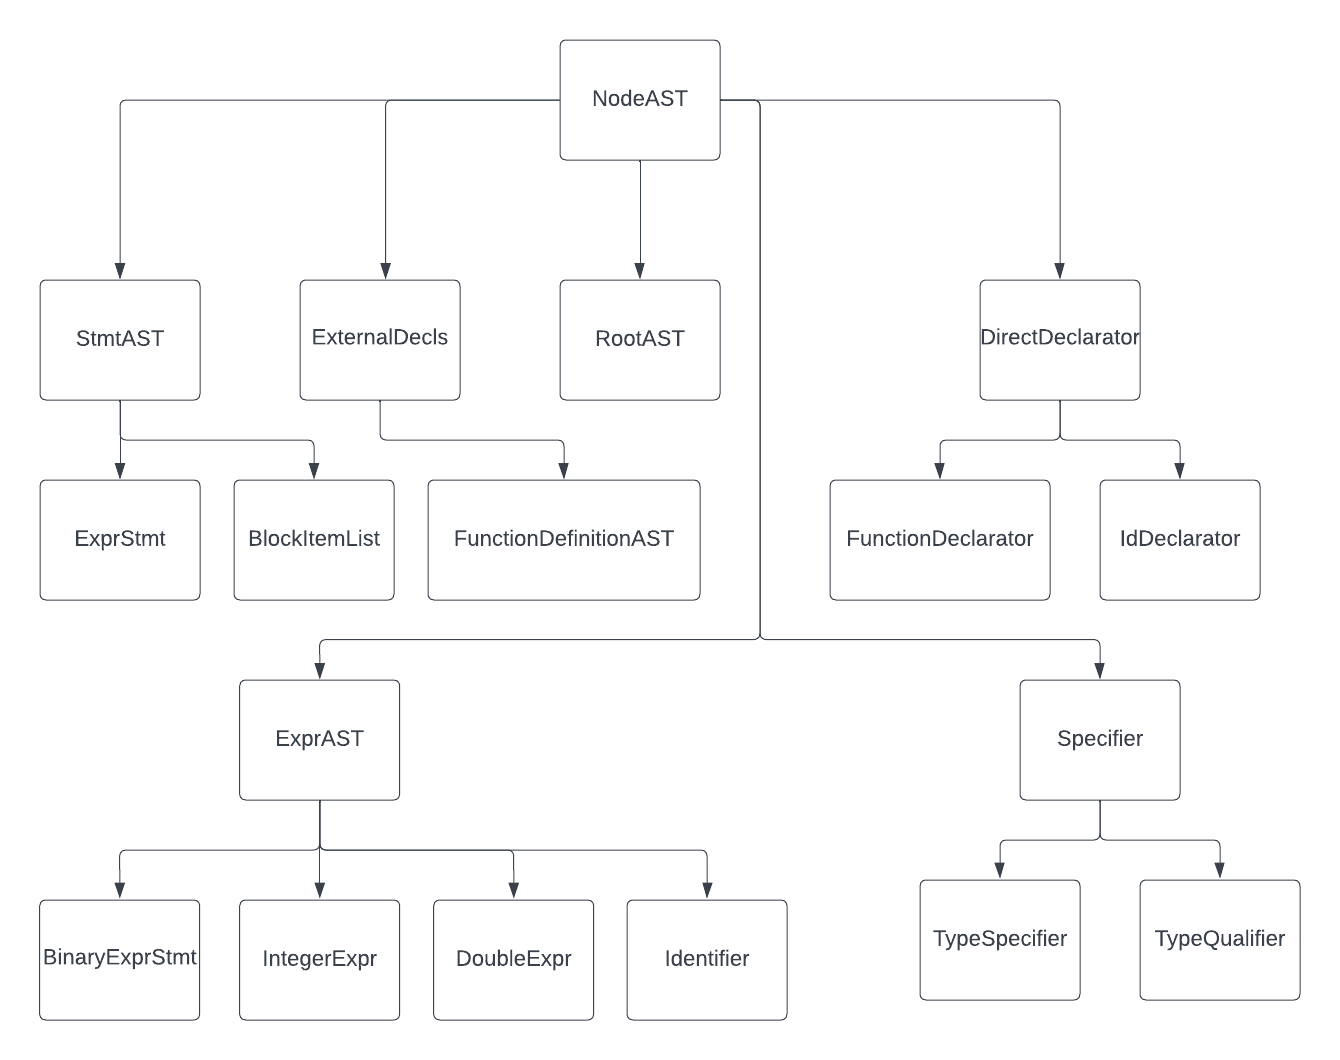
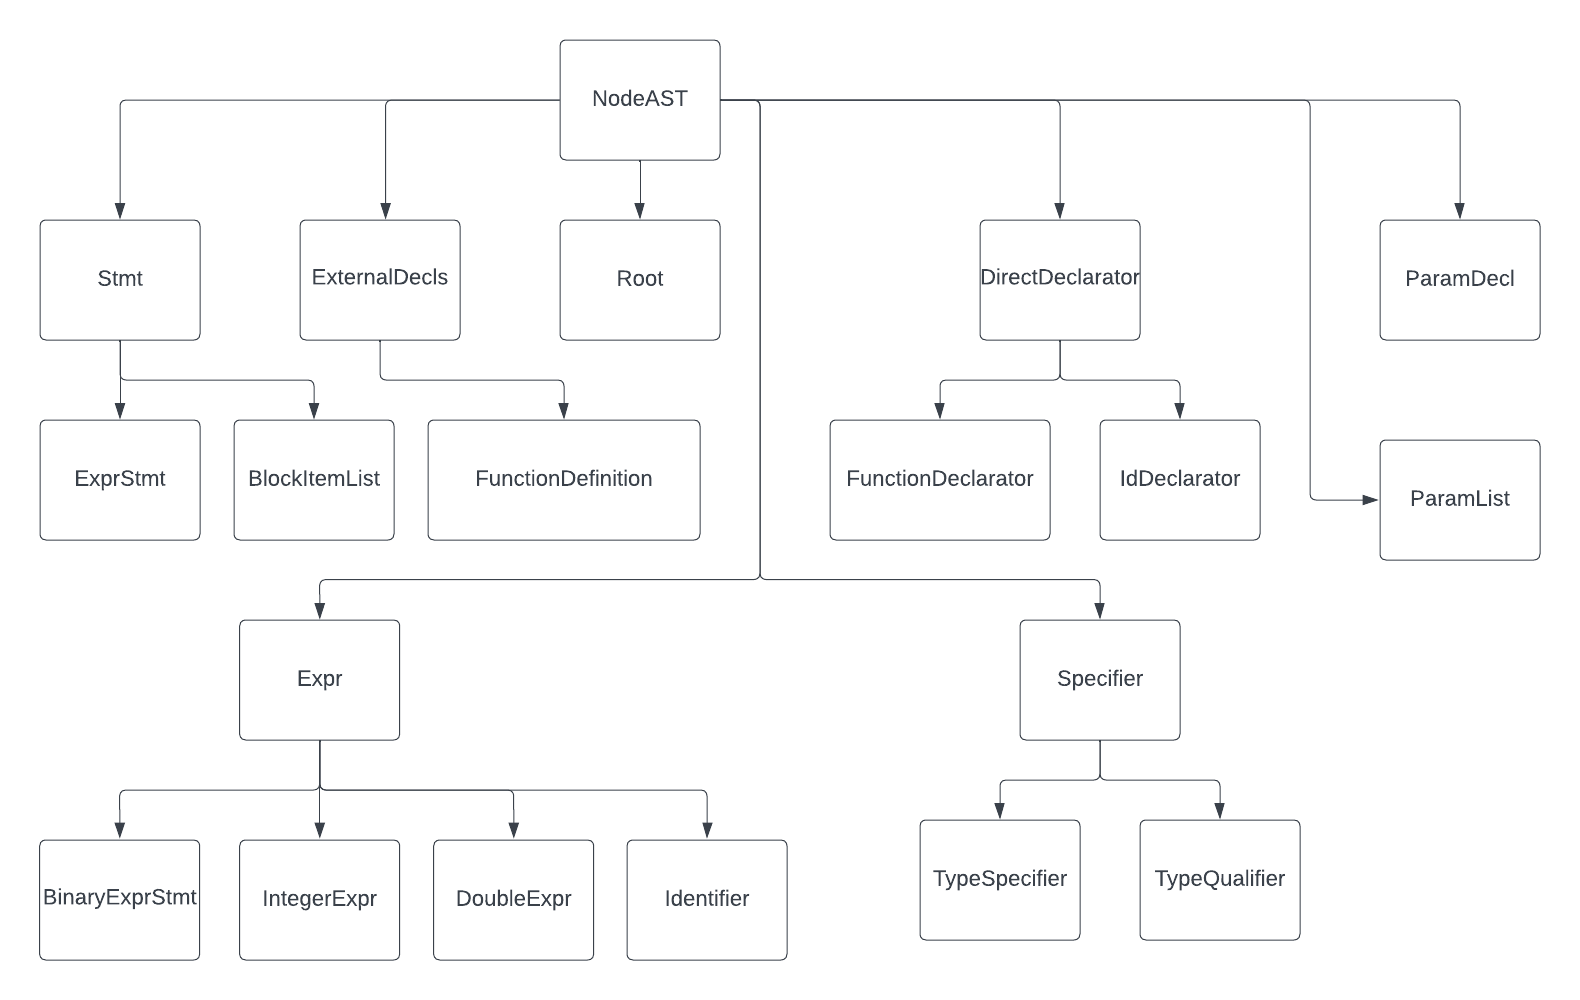
edit readme

diff --git a/README.md b/README.md
@@ -10,10 +10,20 @@ The image below shows the subtyping relationship between all the classes created
 ![images](./images/SubtypeGraph.png)
 
 ### BlockItemListAST
+This class corresponds to a compound statement. We Store a vector of type `StmtAST*` each of which correspond to a statement.
+A statement can be an expression or a declaration.
 
 ### DirectDeclaratorAST
+The declarator non-terminal has many productions - but, for our purposes, it is used for producing names of varaibles or functions.
+In the case of functions it also produces a list of its parameters. 
+
+### ParamListAST
+This class stores a vector of `ParamDeclAST*` objects each of which correspond to a function parameter.
 
 ### Specifier
+Produces the type specifer among other things. We have a derived class for different kinds. 
+`PrimitiveTypeSpecAST`, for example, is used to specify the primitive types like `int`, `char` etc.
 
 ### ExprAST
+This class is a base class for holding different kinds of expressions.
 
